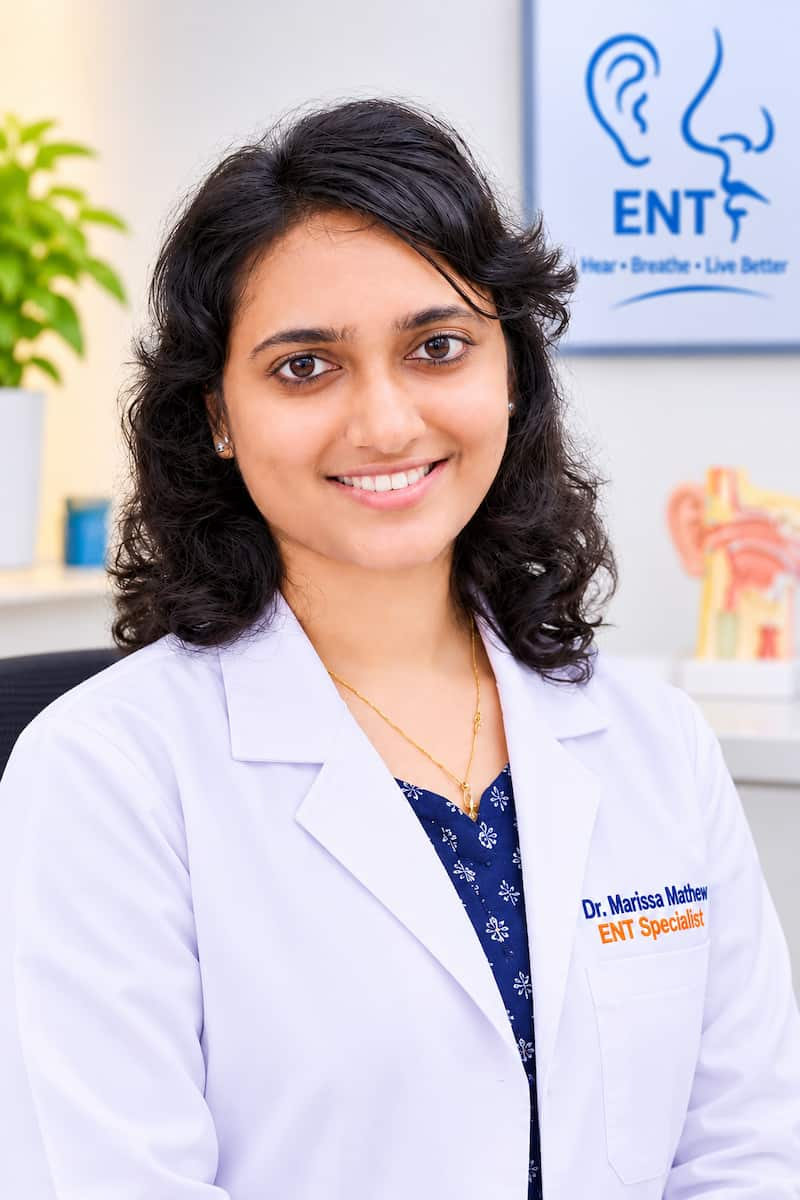
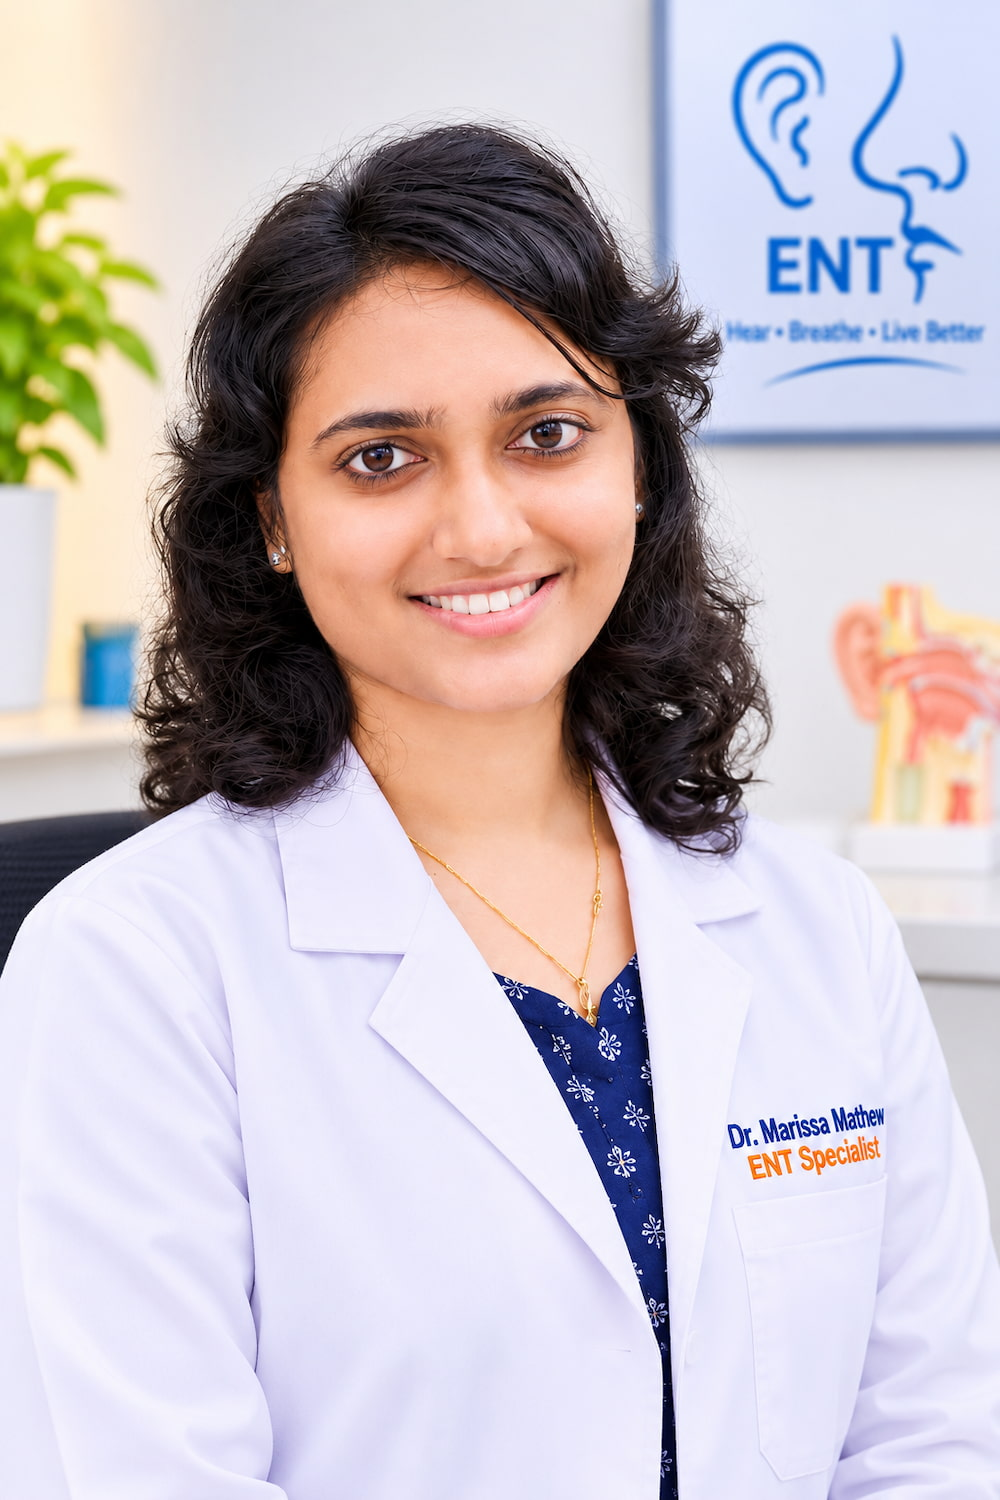
New (#11)
* Delete app/page.tsx

* Add files via upload

* Delete app/about/page.tsx

* Rename home-page[1].tsx to home-page.tsx

* Add About page for Dr. Marissa Mathew

This file contains the About page for Dr. Marissa Mathew, an ENT specialist. It includes metadata for SEO, a hero header, doctor profile, narrative, clinical principles, and outpatient practice scope.

* Rename home-page.tsx to page.tsx

* Rename about-page.tsx to page.tsx

* Delete public/dr-marissa.jpg

* Add files via upload

* Delete public/dr-marissa.jpg

* Add files via upload

* Delete public/dr-marissa.jpg

* Add files via upload

diff --git a/app/page.tsx b/app/page.tsx
@@ -148,11 +148,11 @@ export default function Home() {
             <div className="order-2 lg:order-1 relative">
               <div className="aspect-[4/5] md:aspect-square lg:aspect-[4/5] bg-slate-100 rounded-3xl overflow-hidden relative">
                 <Image
-                  src="https://images.pexels.com/photos/5327585/pexels-photo-5327585.jpeg?auto=compress&cs=tinysrgb&w=1200"
-                  alt="Dr. Marissa's ENT Clinic examination"
+                  src="/dr-marissa.jpg"
+                  alt="Dr. Marissa, ENT specialist in Pongumoodu, Thiruvananthapuram"
                   fill
                   sizes="(min-width: 1024px) 600px, 100vw"
-                  className="object-cover object-center"
+                  className="object-cover object-top"
                   priority
                 />
                 <div className="absolute inset-0 bg-gradient-to-t from-slate-900/40 to-transparent"></div>

diff --git a/app/about/page.tsx b/app/about/page.tsx
@@ -73,11 +73,11 @@ export default function AboutPage() {
             <div className="bg-white rounded-3xl p-6 sm:p-8 border border-slate-200/80 shadow-xs">
               <div className="aspect-square bg-slate-100 rounded-2xl overflow-hidden relative mb-6">
                 <Image
-                  src="https://images.pexels.com/photos/5327585/pexels-photo-5327585.jpeg?auto=compress&cs=tinysrgb&w=800"
-                  alt="Doctor examining patient with otoscope"
+                  src="/dr-marissa.jpg"
+                  alt="Dr. Marissa, ENT specialist at Dr. Marissa's ENT Clinic, Pongumoodu, Thiruvananthapuram"
                   fill
                   sizes="(min-width: 1024px) 400px, 100vw"
-                  className="object-cover object-center"
+                  className="object-cover object-top"
                   priority
                 />
               </div>
